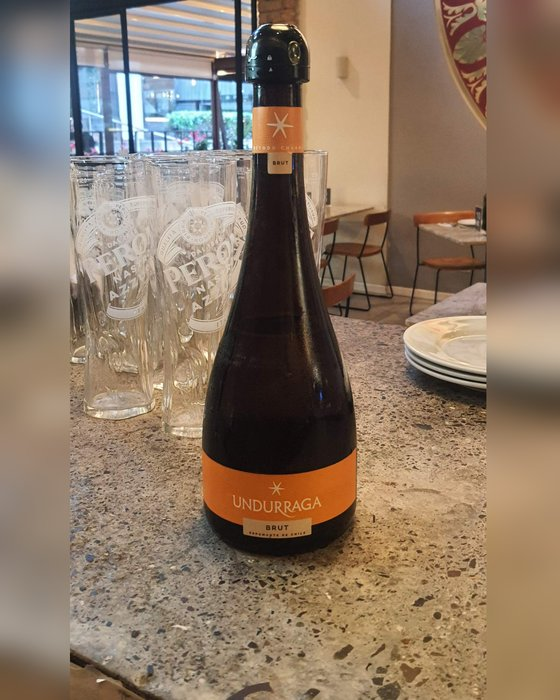
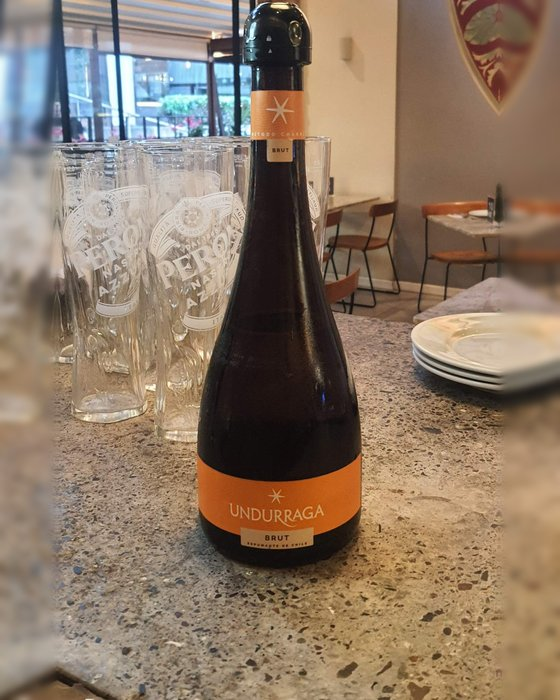
Ramazzotti: botellas más grandes, menos difuminado lateral
Claude-Session: https://claude.ai/code/session_019MoS2hn62rMDpRnL1fqsn9

diff --git a/carta/index.html b/carta/index.html
@@ -715,7 +715,7 @@ function renderTrago(r){
   const V=r.variants?r.variants[Math.min(varT,r.variants.length-1)]:null,rr=Object.assign({},r,V&&V.ing?{ing:V.ing,serv:V.serv||r.serv,steps:V.steps||r.steps}:{});
   r=rr;
   const fd=r.fotoDir||'',L=+(new URLSearchParams(location.search).get('l'))||(fd?1:0);
-  const ph=(f,lab)=>f?`<span class="ph"><img src="${fd}${f}.jpg?v=2" alt="" loading="lazy"></span>`:`<span class="ph pend">foto<br>pendiente</span>`;
+  const ph=(f,lab)=>f?`<span class="ph"><img src="${fd}${f}.jpg?v=3" alt="" loading="lazy"></span>`:`<span class="ph pend">foto<br>pendiente</span>`;
   const rows=r.ing.map(x=>{const q=x.fixed?x.q:x.q*multT;
     const tc=L===1&&fd?`<td class="t">${x.f===undefined?`<span class="ph ico"><svg viewBox="0 0 40 40"><use href="#${x.ico||'hielo'}"/></svg></span>`:ph(x.f)}</td>`:'';
     if(x.oz){const o=x.oz*multT,n=o/DEDO,fl=Math.floor(n+1e-6),pt=n-fl,cnt=Math.min(fl+(pt>.05?1:0),8);let fi='';for(let i=0;i<cnt;i++)fi+=`<i style="--f:${i<fl?100:Math.round(pt*100)}%"></i>`;
